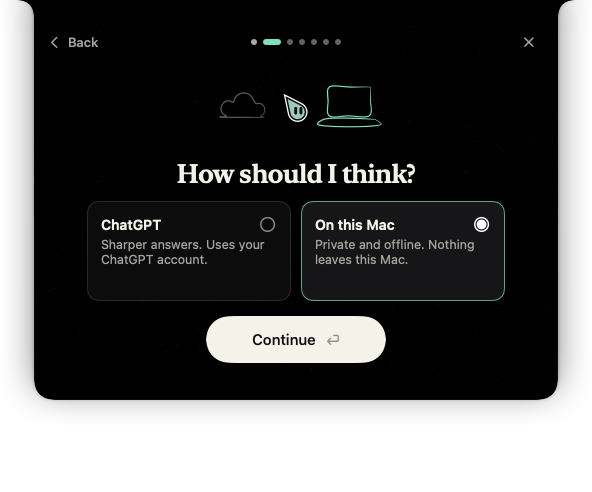
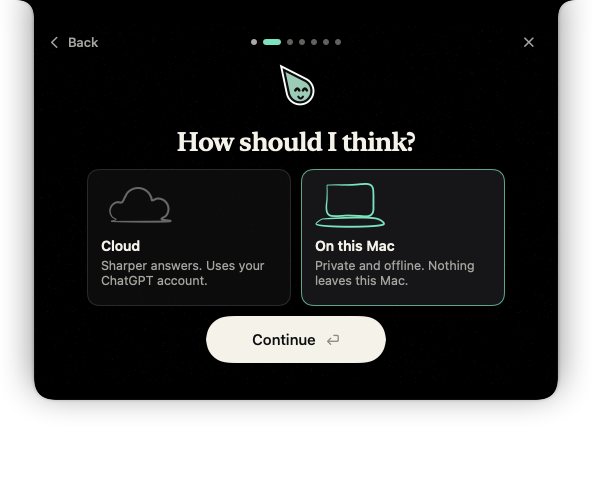
Onboarding brain: Cloud and On this Mac cards carry their own sketch
The cloud card is titled Cloud, since it covers ChatGPT, Claude Code,
ACP agents and API keys; its detail names the provider in use. Each
card draws its ink sketch and lights it when chosen. The radios are
gone; Perry sits above and looks toward the choice.

diff --git a/App/Onboarding/OnboardingBeats.swift b/App/Onboarding/OnboardingBeats.swift
@@ -220,18 +220,17 @@ struct BrainBeat: View {
     }
 
     var body: some View {
-        OnboardingBeatLayout(title: "How should I think?") {
-            ChoiceSketch(local: selected == .local)
-                .scaleEffect(0.6)
-                .modifier(InkDrawOn())
+        OnboardingBeatLayout(title: "How should I think?", artHeight: 52) {
+            PerryCharacterView(pose: perryPose, size: 40)
         } detail: {
             VStack(spacing: 10) {
                 HStack(spacing: 10) {
-                    card(.cloud, title: cloudRow == .apiKey ? "Your API key" : cloudRow.title, detail: cloudDetail, status: cloudReady ? readyDetail : nil)
-                    card(.local, title: "On this Mac", detail: "Private and offline. Nothing leaves this Mac.",
+                    card(.cloud, title: "Cloud", sketch: .cloud, detail: cloudDetail, status: cloudReady ? readyDetail : nil)
+                    card(.local, title: "On this Mac", sketch: .laptop, detail: "Private and offline. Nothing leaves this Mac.",
                          status: localReady ? nil : "Set up later in Settings")
                         .disabled(!localReady)
                 }
+                .fixedSize(horizontal: false, vertical: true)
                 if let error = brain.signInError {
                     Text(error)
                         .font(PerryTheme.Scale.secondary)
@@ -262,7 +261,7 @@ struct BrainBeat: View {
     private var cloudDetail: String {
         switch cloudRow {
         case .chatGPT: "Sharper answers. Uses your ChatGPT account."
-        case .apiKey: "Sharper answers. Your provider bills you."
+        case .apiKey: "Sharper answers. Uses your API key."
         default: "Sharper answers. Uses \(cloudRow.title)."
         }
     }
@@ -304,19 +303,23 @@ struct BrainBeat: View {
         }
     }
 
-    private func card(_ value: Route, title: String, detail: String, status: String?) -> some View {
+    private var perryPose: PerryCharacterPose {
+        var pose = PerryCharacterPose()
+        pose.face = .happy
+        pose.gaze = CGVector(dx: selected == .local ? 0.9 : -0.9, dy: 0.3)
+        return pose
+    }
+
+    private func card(_ value: Route, title: String, sketch: ChoiceSketch.Kind, detail: String, status: String?) -> some View {
         let isSelected = selected == value
         return Button { route = value } label: {
             VStack(alignment: .leading, spacing: 4) {
-                HStack {
-                    Text(title)
-                        .font(PerryTheme.Scale.rowTitle)
-                        .foregroundStyle(PerryTheme.Colors.text)
-                    Spacer()
-                    Image(systemName: isSelected ? "largecircle.fill.circle" : "circle")
-                        .font(PerryTheme.Icon.row)
-                        .foregroundStyle(isSelected ? PerryTheme.Colors.accent : PerryTheme.Colors.textTertiary)
-                }
+                ChoiceSketch(kind: sketch, lit: isSelected)
+                    .modifier(InkDrawOn())
+                    .padding(.bottom, 6)
+                Text(title)
+                    .font(PerryTheme.Scale.rowTitle)
+                    .foregroundStyle(PerryTheme.Colors.text)
                 Text(detail)
                     .font(PerryTheme.Scale.secondary)
                     .foregroundStyle(PerryTheme.Colors.textSecondary)
@@ -331,7 +334,8 @@ struct BrainBeat: View {
             }
             .multilineTextAlignment(.leading)
             .padding(14)
-            .frame(width: 204, height: 100, alignment: .topLeading)
+            .frame(width: 204, alignment: .topLeading)
+            .frame(maxHeight: .infinity, alignment: .top)
             .background(PerryTheme.Colors.surface.opacity(isSelected ? 1 : 0.55), in: RoundedRectangle(cornerRadius: 12, style: .continuous))
             .overlay {
                 RoundedRectangle(cornerRadius: 12, style: .continuous)

diff --git a/App/Onboarding/OnboardingParts.swift b/App/Onboarding/OnboardingParts.swift
@@ -256,52 +256,47 @@ struct PermissionSketch: View {
 }
 
 struct ChoiceSketch: View {
+    enum Kind {
+        case cloud, laptop
+    }
+
     @Environment(\.inkProgress) private var progress
-    let local: Bool
+    let kind: Kind
+    let lit: Bool
 
     var body: some View {
+        let color = lit ? PerryTheme.Colors.accent : PerryTheme.Colors.text.opacity(0.4)
         ZStack(alignment: .topLeading) {
-            ZStack(alignment: .topLeading) {
-                InkLine(points: InkStroke.rectangle(in: CGRect(x: 26, y: 30, width: 70, height: 48)), width: 2, seed: 41, progress: progress, color: tint(local))
-                InkLine(points: [CGPoint(x: 18, y: 84), CGPoint(x: 104, y: 84), CGPoint(x: 114, y: 92), CGPoint(x: 8, y: 92), CGPoint(x: 18, y: 84)], width: 2, seed: 42, progress: progress, color: tint(local))
-                InkLine(points: Self.cloud, width: 2.2, seed: 43, progress: progress, color: tint(!local), smooth: false)
+            switch kind {
+            case .laptop:
+                InkLine(points: InkStroke.rectangle(in: CGRect(x: 12, y: 2, width: 46, height: 30)), width: 1.8, seed: 41, progress: progress, color: color)
+                InkLine(points: [CGPoint(x: 7, y: 36), CGPoint(x: 63, y: 36), CGPoint(x: 69, y: 41), CGPoint(x: 1, y: 41), CGPoint(x: 7, y: 36)], width: 1.8, seed: 42, progress: progress, color: color)
+            case .cloud:
+                InkLine(points: Self.cloud, width: 2, seed: 43, progress: progress, color: color, smooth: false)
             }
-            .frame(width: 300, height: 110, alignment: .topLeading)
-            .scaleEffect(x: -1, y: 1)
-            PerryCharacterView(pose: pose, size: 46)
-                .position(x: 148, y: 66)
         }
-        .frame(width: 300, height: 110)
-        .animation(.easeOut(duration: 0.2), value: local)
+        .frame(width: 70, height: 44, alignment: .topLeading)
+        .animation(.easeOut(duration: 0.2), value: lit)
+        .accessibilityHidden(true)
     }
 
     static let cloud: [CGPoint] = {
         let bumps: [(CGPoint, CGFloat, Double, Double)] = [
-            (CGPoint(x: 213, y: 68), 11, .pi * 0.6, .pi * 1.6),
-            (CGPoint(x: 237, y: 57), 17, .pi * 1.1, .pi * 1.92),
-            (CGPoint(x: 262, y: 66), 13, .pi * 1.3, .pi * 2.4)
+            (CGPoint(x: 18, y: 28), 9, .pi * 0.6, .pi * 1.6),
+            (CGPoint(x: 37, y: 19), 14, .pi * 1.1, .pi * 1.92),
+            (CGPoint(x: 57, y: 26), 10.5, .pi * 1.3, .pi * 2.4)
         ]
-        var points = [CGPoint(x: 203, y: 80)]
+        var points = [CGPoint(x: 10, y: 38)]
         for (center, radius, from, to) in bumps {
             for step in 0...6 {
                 let angle = from + (to - from) * Double(step) / 6
                 points.append(CGPoint(x: center.x + radius * cos(angle), y: center.y + radius * sin(angle)))
             }
         }
-        points.append(CGPoint(x: 278, y: 80))
-        points.append(CGPoint(x: 203, y: 80.5))
+        points.append(CGPoint(x: 70, y: 38))
+        points.append(CGPoint(x: 10, y: 38.5))
         return points
     }()
-
-    private func tint(_ on: Bool) -> Color {
-        on ? PerryTheme.Colors.accent : PerryTheme.Colors.text.opacity(0.35)
-    }
-
-    private var pose: PerryCharacterPose {
-        var pose = PerryCharacterPose()
-        pose.gaze = CGVector(dx: local ? 0.9 : -0.9, dy: -0.1)
-        return pose
-    }
 }
 
 struct SketchbookGrain: View {
